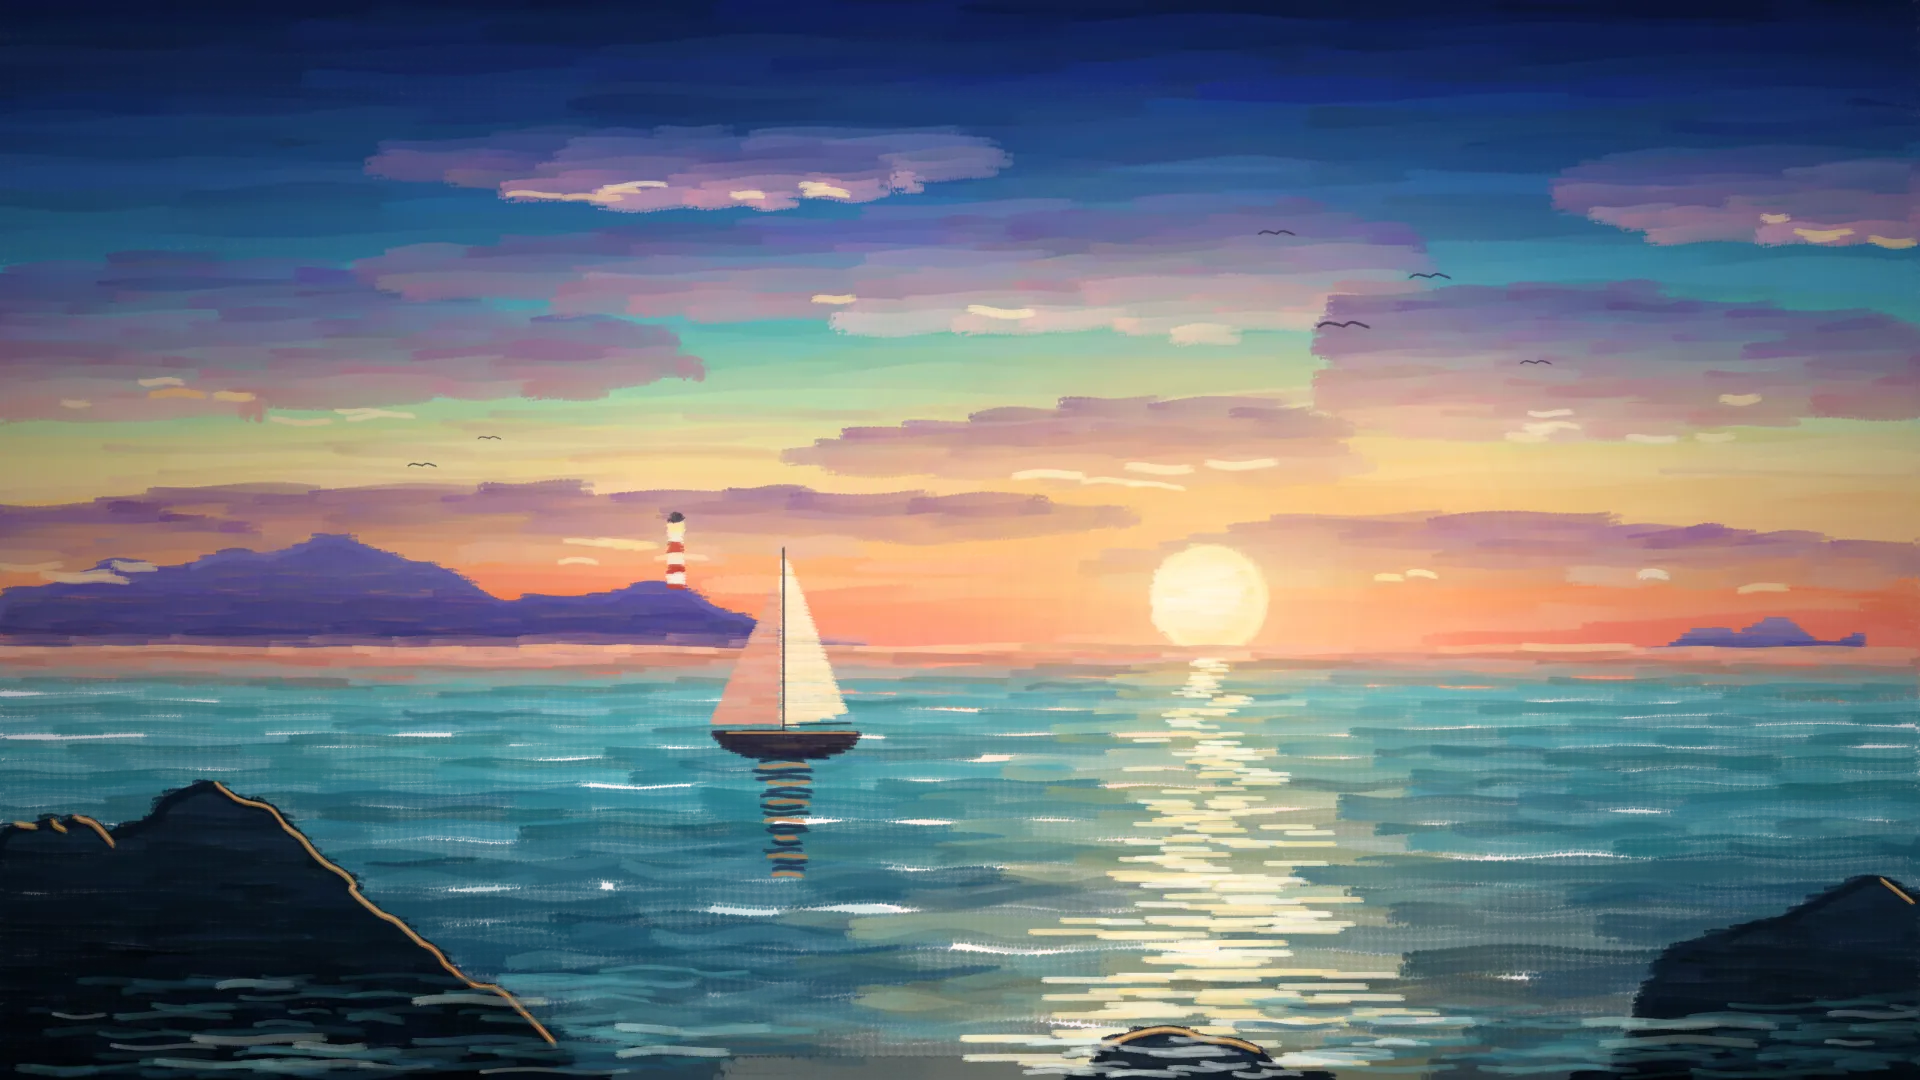
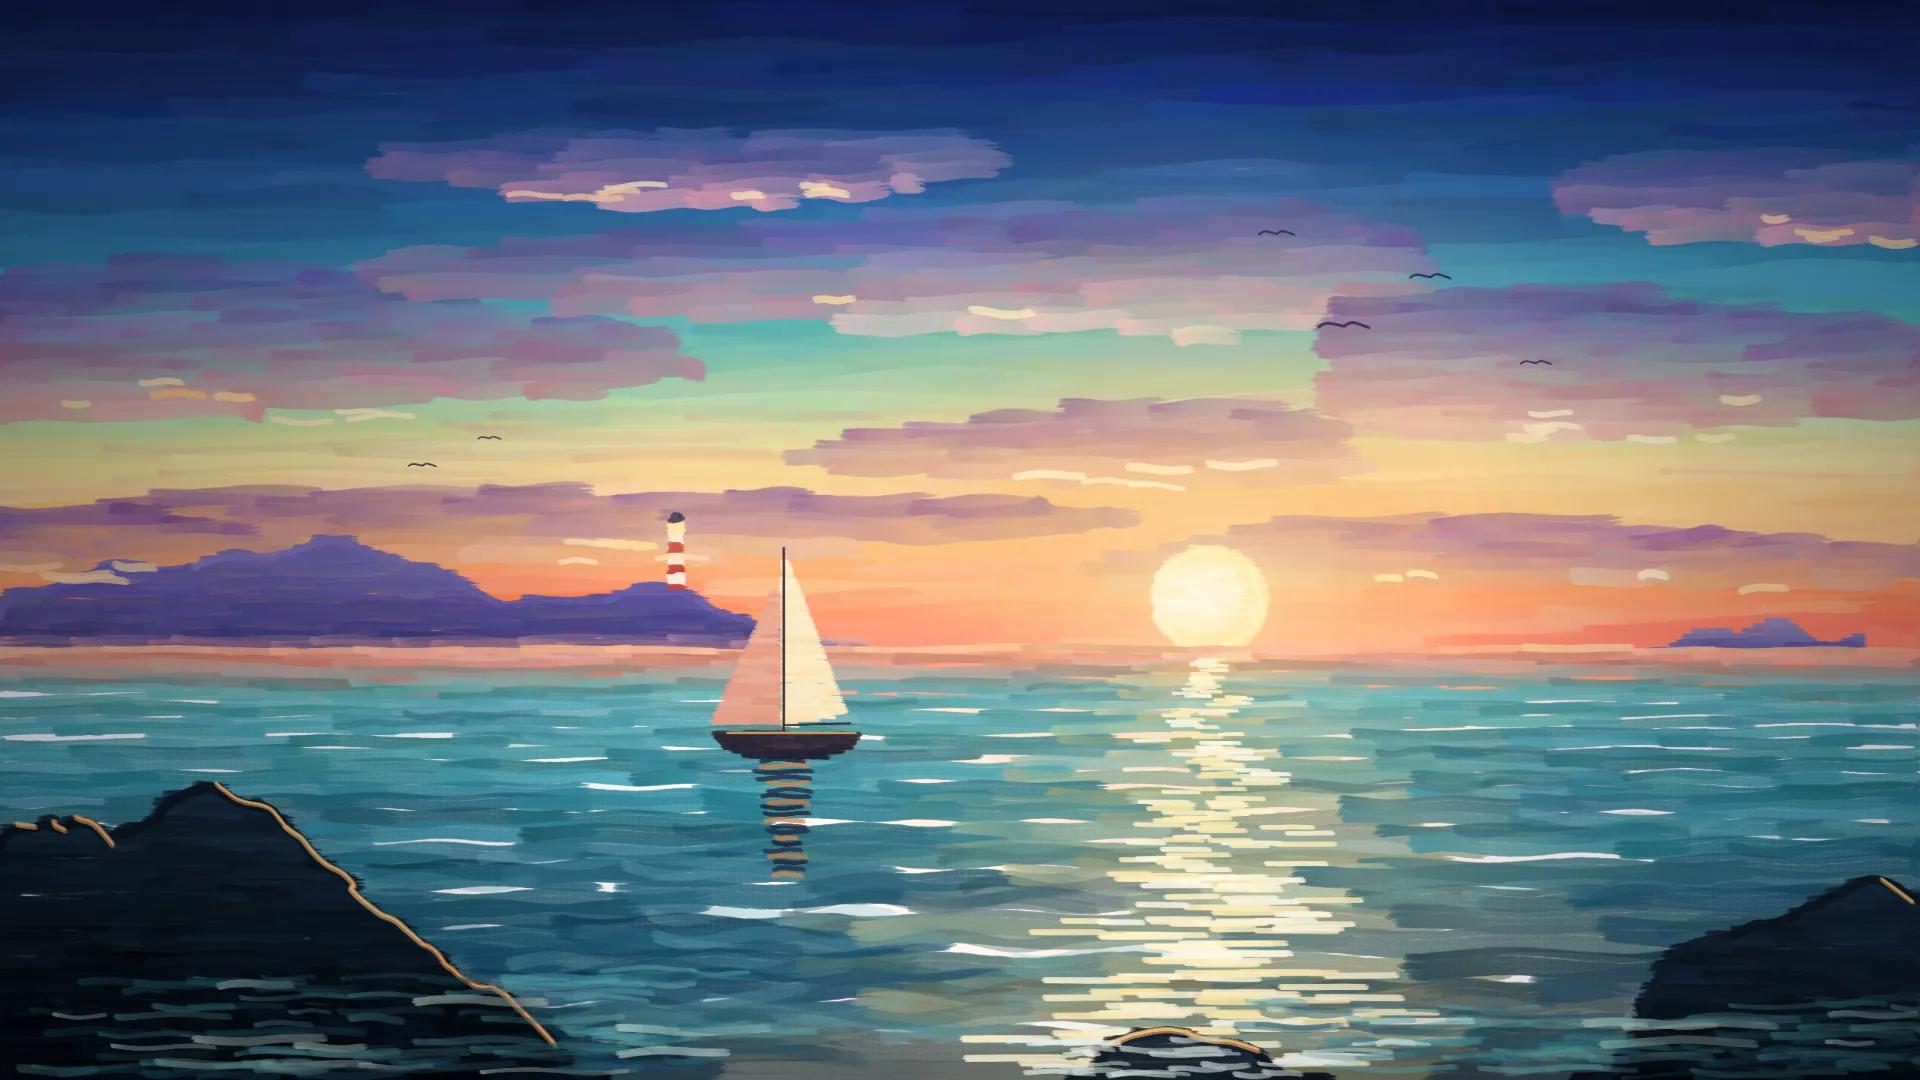
Quarc Draw 1.1.1: no more dot pattern in oil strokes; repainted "Harbour at Dusk"
The oil brush left a visible "dot dot dot" texture, most obvious when zoomed in.
Two causes, both in the brush engine:
- The bristle tip was a cluster of round dots, so a moving brush stamped rows of
  beads. Each bristle is now a short streak along the stroke direction (the tip
  follows the stroke), so the stamps run together into hairline streaks.
- The "canvas" grain was two sine waves = a perfectly even dot lattice, with a hard
  S-curve. It is now an irregular woven fabric (uneven threads over/under, fibre
  noise, slubs) with a linear response, and the painting uses it much more gently.
Affects every brush with the Oil Bristle tip or canvas grain (oil, acrylic, coloured
pencil). The home-screen painting was repainted in the app with the new brush.

diff --git a/frontend/src/brush/engine.ts b/frontend/src/brush/engine.ts
@@ -85,12 +85,14 @@ function makeTip(kind: TipKind, hardness: number, color: string, res: number, im
   } else if (kind === 'square') {
     ctx.fillStyle = color; ctx.fillRect(1, 1, res - 2, res - 2);
   } else if (kind === 'bristle') {
+    // Each bristle is a short streak lying along the stroke direction (the tip is turned to follow the stroke), so the stamps
+    // of a moving brush run together into hairline streaks like real bristles — round bristle marks showed as rows of beads.
     ctx.fillStyle = color;
-    const n = 26;
+    const n = 40;
     for (let i = 0; i < n; i++) {
-      const a = rand() * Math.PI * 2, d = Math.sqrt(rand()) * (r * 0.82), br = r * (0.07 + rand() * 0.1);
-      ctx.globalAlpha = 0.45 + rand() * 0.55;
-      ctx.beginPath(); ctx.arc(r + Math.cos(a) * d, r + Math.sin(a) * d, br, 0, Math.PI * 2); ctx.fill();
+      const a = rand() * Math.PI * 2, d = Math.sqrt(rand()) * (r * 0.72), br = r * (0.035 + rand() * 0.06);
+      ctx.globalAlpha = 0.4 + rand() * 0.6;
+      ctx.beginPath(); ctx.ellipse(r + Math.cos(a) * d, r + Math.sin(a) * d, br * (3 + rand() * 2.5), br, 0, 0, Math.PI * 2); ctx.fill();
     }
   } else if (kind === 'star') {
     ctx.fillStyle = color; ctx.beginPath();
@@ -148,9 +150,21 @@ export function grainTile(kind: GrainKind, depth: number): HTMLCanvasElement | n
   else if (kind === 'rough') { octave(8, 0.4); octave(16, 0.35); octave(4, 0.25); }
   else if (kind === 'noise') { octave(1, 1); }
   else if (kind === 'canvas') {
+    // A woven fabric, not a lattice of dots: warp and weft threads of 8 px that pass over and under each other, each thread a
+    // little thicker / brighter than its neighbours, plus fibre noise and slow slubs. (Two sine waves made a perfectly even dot grid.)
+    const P = 8, n = S / P;
+    const warp = Array.from({ length: n }, () => 0.8 + 0.4 * rand()), weft = Array.from({ length: n }, () => 0.8 + 0.4 * rand());
+    const warpShift = Array.from({ length: n }, () => (rand() - 0.5) * 0.18), weftShift = Array.from({ length: n }, () => (rand() - 0.5) * 0.18);
+    const slubG = Array.from({ length: 17 * 17 }, () => rand());                  // low-frequency irregularity (16 cells across, wraps)
+    const prof = (t: number) => Math.pow(Math.sin(Math.PI * Math.min(1, Math.max(0, t))), 0.7);
     for (let y = 0; y < S; y++) for (let x = 0; x < S; x++) {
-      const wx = Math.sin((x / 4) * Math.PI) * 0.5 + 0.5, wy = Math.sin((y / 4) * Math.PI) * 0.5 + 0.5;
-      base[y * S + x] = (wx * 0.5 + wy * 0.5) * 0.75 + rand() * 0.25;
+      const i = Math.floor(x / P), j = Math.floor(y / P);
+      const fx = (x % P + 0.5) / P + warpShift[i], fy = (y % P + 0.5) / P + weftShift[j];
+      const warpOver = ((i + j) & 1) === 0;
+      let v = warpOver ? prof(fx) * (0.6 + 0.4 * prof(fy)) * warp[i] : prof(fy) * (0.6 + 0.4 * prof(fx)) * weft[j];
+      const gx = x / 16, gy = y / 16, x0 = Math.floor(gx) % 16, y0 = Math.floor(gy) % 16, tx = gx - Math.floor(gx), ty = gy - Math.floor(gy);
+      const slub = slubG[y0 * 17 + x0] * (1 - tx) * (1 - ty) + slubG[y0 * 17 + (x0 + 1) % 16] * tx * (1 - ty) + slubG[((y0 + 1) % 16) * 17 + x0] * (1 - tx) * ty + slubG[((y0 + 1) % 16) * 17 + (x0 + 1) % 16] * tx * ty;
+      base[y * S + x] = v + (rand() - 0.5) * 0.22 + (slub - 0.5) * 0.3;
     }
   }
   // normalise to 0..1 contrast
@@ -158,7 +172,7 @@ export function grainTile(kind: GrainKind, depth: number): HTMLCanvasElement | n
   for (const v of base) { if (v < mn) mn = v; if (v > mx) mx = v; }
   for (let i = 0; i < S * S; i++) {
     const n = (base[i] - mn) / (mx - mn || 1);
-    d[i * 4 + 3] = 255 * (1 - depth + depth * n * n * (3 - 2 * n));
+    d[i * 4 + 3] = 255 * (1 - depth + depth * (kind === 'canvas' ? n : n * n * (3 - 2 * n)));
   }
   ctx.putImageData(id, 0, 0);
   grainCache.set(key, c);

diff --git a/frontend/scripts/artwork/painter.js b/frontend/scripts/artwork/painter.js
@@ -35,8 +35,8 @@
   const tick = () => new Promise((r) => setTimeout(r, 0));
   let current = null, strokes = 0;
   const PRESET_DEFAULTS = {
-    'paint-oil': { hardness: 1, flow: 0.9, smoothing: 0.3, wet: 0.7, grainDepth: 0.13, grainScale: 1.6 },
-    'paint-acrylic': { hardness: 1, flow: 0.95, smoothing: 0.35, wet: 0.25, grainDepth: 0.12, grainScale: 1.6 },
+    'paint-oil': { hardness: 1, flow: 0.9, smoothing: 0.3, wet: 0.7, grainDepth: 0.09, grainScale: 1.0 },
+    'paint-acrylic': { hardness: 1, flow: 0.95, smoothing: 0.35, wet: 0.25, grainDepth: 0.08, grainScale: 1.0 },
     'paint-airbrush': { hardness: 0, flow: 0.12, smoothing: 0.25, wet: 0 },
   };
   function setup(o) {

diff --git a/CLAUDE.md b/CLAUDE.md
@@ -45,7 +45,7 @@ check.sh, backup.sh, restore.sh and `.github/workflows/{tests,desktop-release}.y
 ## Tests
 
 `cd backend && npm test` (12), `cd frontend && npm run typecheck && npm test` (32) and `node tests/e2e/run.mjs [group]` after
-`npm run build` (60 steps, needs Edge/Chrome; the backend is started by the suite with the development login `--dev-auth`,
+`npm run build` (62 steps, needs Edge/Chrome; the backend is started by the suite with the development login `--dev-auth`,
 password `dev`; `E2E_DEBUG=1` shows its output). The sync group is timing-sensitive: do not run it while Docker/Gradle builds
 are hogging the machine. Desktop: `cd desktop/src-tauri && cargo test`.
 
